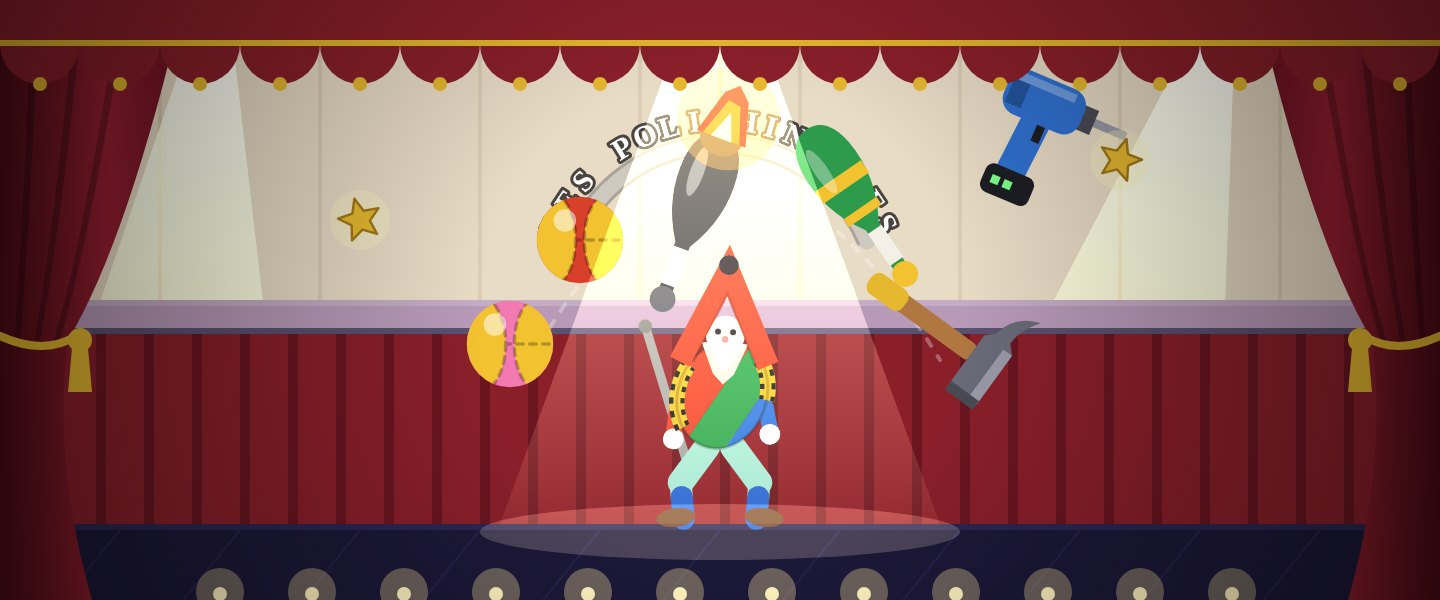
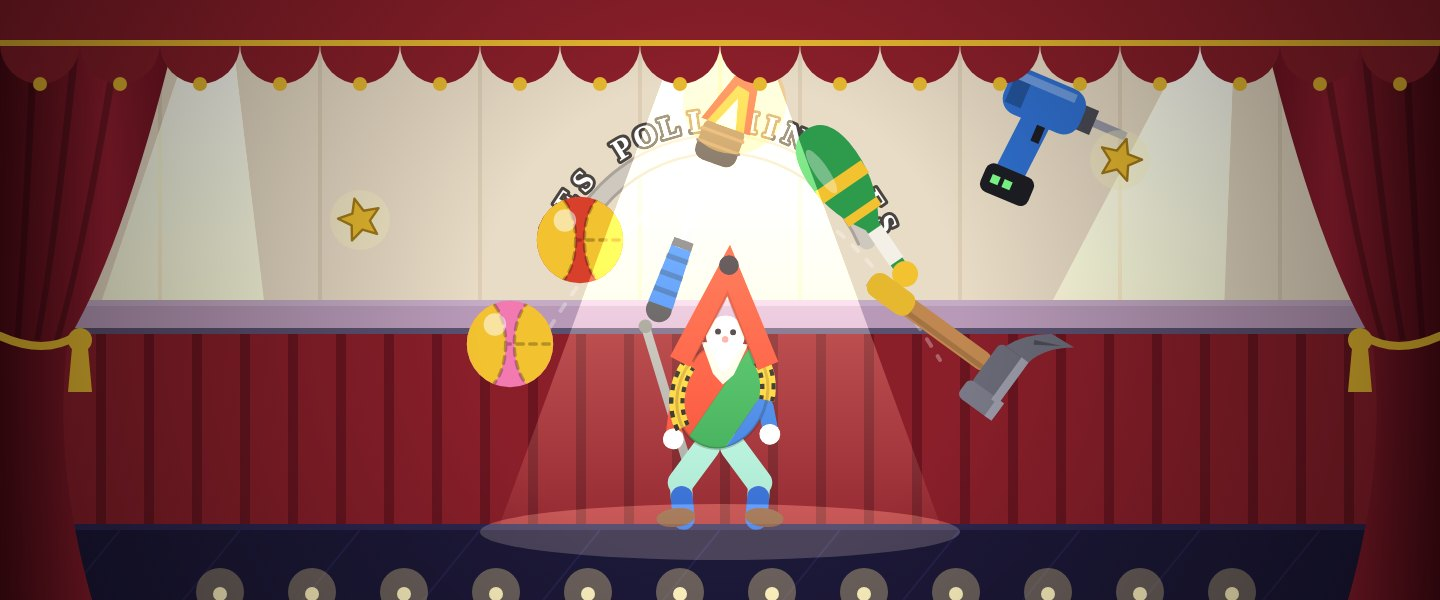
Jongleur : vraie torche de jonglage (manche, tube, mèche en feu) et marteau redessiné
Claude-Session: https://claude.ai/code/session_01VvPzovv9M4HU3UF5ZMQjNa

Changed region(s): [[0.4375, 0.12, 0.5625, 0.54], [0.6562, 0.54, 0.75, 0.69], [0.625, 0.48, 0.6562, 0.54]]

diff --git a/jongleur.html b/jongleur.html
@@ -2092,22 +2092,28 @@ function onTap(x, y) {
   if (tosses % 10 === 0 && n < 5) { const kd = pickJug(); addJug(kd); sfx.newObj(); popup(W / 2, G - 120, JUG_NAME[kd], '#ffe066') }
 }
 function drawClub(j, fire) {
-  // juggling club: knob, thin taped handle, long bulb
-  const body = fire ? '#3a3a44' : j.k;
-  X.fillStyle = body; X.beginPath(); X.moveTo(-1.6, 17); X.lineTo(-1.8, 5); X.quadraticCurveTo(-7.5, -4, -6.5, -14); X.quadraticCurveTo(-5.5, -22, 0, -22); X.quadraticCurveTo(5.5, -22, 6.5, -14); X.quadraticCurveTo(7.5, -4, 1.8, 5); X.lineTo(1.6, 17); X.closePath(); X.fill();
-  X.fillStyle = '#f4f0e8'; X.fillRect(-1.9, 6, 3.8, 9);
-  circ(fire ? '#5a5a66' : j.k2, 0, 18.5, 3);
-  if (!fire) { X.fillStyle = j.k2; X.fillRect(-6.4, -9, 12.8, 3.4); X.fillRect(-4.6, 0, 9.2, 2.2) }
-  X.fillStyle = 'rgba(255,255,255,.35)'; X.beginPath(); X.ellipse(-2.6, -12, 1.6, 6, 0, 0, 6.29); X.fill();
   if (fire) {
-    // wick wrapped in kevlar, on fire
-    X.fillStyle = '#5a4a3a'; X.beginPath(); X.ellipse(0, -21, 5, 4, 0, 0, 6.29); X.fill();
+    // fire torch for juggling: handle, aluminium tube, kevlar wick burning at the end
+    circ('#3a3a44', 0, 21, 3);
+    X.fillStyle = j.k; X.beginPath(); X.moveTo(-3, 20); X.lineTo(-2.4, 5); X.lineTo(2.4, 5); X.lineTo(3, 20); X.closePath(); X.fill();
+    X.fillStyle = 'rgba(0,0,0,.25)'; for (const y of [8, 12, 16]) X.fillRect(-2.8, y, 5.6, 1.2);
+    X.fillStyle = '#b8bcc8'; X.fillRect(-1.6, -16, 3.2, 22); X.fillStyle = '#e8ecf4'; X.fillRect(-1, -16, 1, 22);
+    X.fillStyle = '#5a5a66'; X.fillRect(-2.4, 4, 4.8, 2);
+    X.fillStyle = '#3a3030'; X.beginPath(); X.roundRect(-5, -25, 10, 10, 2.5); X.fill();
+    X.strokeStyle = '#5a4a40'; X.lineWidth = .8; for (const y of [-22, -19]) { X.beginPath(); X.moveTo(-5, y); X.lineTo(5, y); X.stroke() }
     const f = M.sin(t * .6 + j.x) * 1.5, h = 13 + M.sin(t * .9 + j.y) * 3;
-    X.save(); X.globalAlpha = .35; circ('#ffb040', 0, -26, 12); X.restore();
-    poly('#e0401f', [-6, -21, 6, -21, 3 + f, -24 - h * .7, 0, -24 - h, -3 + f, -24 - h * .75]);
-    poly('#f08a1c', [-4.5, -21, 4.5, -21, 1.5 + f, -24 - h * .55, -1.5 + f, -24 - h * .6]);
-    poly('#fff3b0', [-2.5, -21, 2.5, -21, f * .5, -24 - h * .35]);
+    X.save(); X.globalAlpha = .35; circ('#ffb040', 0, -30, 12); X.restore();
+    poly('#e0401f', [-6, -24, 6, -24, 3 + f, -27 - h * .7, 0, -27 - h, -3 + f, -27 - h * .75]);
+    poly('#f08a1c', [-4.5, -24, 4.5, -24, 1.5 + f, -27 - h * .55, -1.5 + f, -27 - h * .6]);
+    poly('#fff3b0', [-2.5, -24, 2.5, -24, f * .5, -27 - h * .35]);
+    return;
   }
+  // juggling club: knob, thin taped handle, long bulb
+  X.fillStyle = j.k; X.beginPath(); X.moveTo(-1.6, 17); X.lineTo(-1.8, 5); X.quadraticCurveTo(-7.5, -4, -6.5, -14); X.quadraticCurveTo(-5.5, -22, 0, -22); X.quadraticCurveTo(5.5, -22, 6.5, -14); X.quadraticCurveTo(7.5, -4, 1.8, 5); X.lineTo(1.6, 17); X.closePath(); X.fill();
+  X.fillStyle = '#f4f0e8'; X.fillRect(-1.9, 6, 3.8, 9);
+  circ(j.k2, 0, 18.5, 3);
+  X.fillStyle = j.k2; X.fillRect(-6.4, -9, 12.8, 3.4); X.fillRect(-4.6, 0, 9.2, 2.2);
+  X.fillStyle = 'rgba(255,255,255,.35)'; X.beginPath(); X.ellipse(-2.6, -12, 1.6, 6, 0, 0, 6.29); X.fill();
 }
 function drawJug(j) {
   if (j.kind === 'star') { X.save(); X.globalAlpha = .35; circ('#fff6c0', j.x, j.y, 15); X.restore(); star(j.x, j.y, 11, j.rot); return }
@@ -2129,10 +2135,14 @@ function drawJug(j) {
     X.fillStyle = '#1d1d24'; X.fillRect(-4.5, -5, 9, 3);
     X.fillStyle = 'rgba(255,255,255,.35)'; X.fillRect(-3.4, -1, 1.2, 14);
   } else if (j.kind === 'hammer') {
-    X.fillStyle = '#b07840'; X.beginPath(); X.roundRect(-2.2, -10, 4.4, 30, 2); X.fill();
-    X.fillStyle = j.k; X.beginPath(); X.roundRect(-2.8, 10, 5.6, 10, 2); X.fill();
-    X.fillStyle = '#6a6a78'; X.beginPath(); X.moveTo(-5, -17); X.lineTo(9, -17); X.lineTo(9, -9); X.lineTo(-5, -9); X.lineTo(-7, -11); X.quadraticCurveTo(-13, -12, -15, -18); X.quadraticCurveTo(-11, -15, -7, -15); X.closePath(); X.fill();
-    X.fillStyle = '#9a9aa8'; X.fillRect(-5, -17, 14, 2.5); X.fillStyle = '#4a4a55'; X.fillRect(8, -17, 2.5, 8);
+    // claw hammer: wooden handle with a coloured grip, steel head centred on top
+    X.fillStyle = '#c08850'; X.beginPath(); X.roundRect(-2.3, -14, 4.6, 34, 2); X.fill();
+    X.fillStyle = 'rgba(0,0,0,.15)'; X.fillRect(.6, -14, 1.2, 34);
+    X.fillStyle = j.k; X.beginPath(); X.roundRect(-3, 8, 6, 12, 2.5); X.fill();
+    X.fillStyle = '#6a6a78'; X.beginPath(); X.roundRect(-6, -21, 12, 8, 1.5); X.fill();
+    X.fillStyle = '#7a7a88'; X.beginPath(); X.roundRect(5, -22, 5, 10, 1.5); X.fill();
+    X.fillStyle = '#6a6a78'; X.beginPath(); X.moveTo(-6, -21); X.quadraticCurveTo(-11, -22, -15, -27.5); X.lineTo(-14.5, -21.5); X.quadraticCurveTo(-11, -16.5, -6, -14.5); X.closePath(); X.fill(); X.fillStyle = '#4a4a55'; X.beginPath(); X.moveTo(-13.6, -25); X.lineTo(-10, -19.5); X.lineTo(-11, -19); X.closePath(); X.fill();
+    X.fillStyle = '#9a9aa8'; X.fillRect(-6, -21, 12, 2); X.fillRect(5, -22, 5, 2);
   } else if (j.kind === 'drill') {
     // cordless screwdriver / drill
     X.fillStyle = '#9a9aa8'; X.fillRect(9, -9.5, 9, 2); X.fillStyle = '#4a4a55'; X.fillRect(6, -11.5, 4, 6);

diff --git a/sw.js b/sw.js
@@ -1,6 +1,6 @@
 // Les Polichinelles - service worker
 // Network first (players always get the latest version when online), cache as a fallback (works offline).
-const CACHE = 'polichinelles-v18';
+const CACHE = 'polichinelles-v19';
 const CORE = ['./', 'index.html', 'course.html', 'envol.html', 'tape.html', 'pyramide.html', 'jongleur.html', 'trampo.html', 'tir.html', 'loge.html', 'pass.html', 'pass.js', 'shots/course.jpg', 'shots/envol.jpg', 'shots/trampo.jpg', 'shots/tir.jpg', 'shots/tape.jpg', 'shots/pyramide.jpg', 'shots/jongleur.jpg', 'kart.html', 'three.module.min.js', 'manifest.webmanifest', 'icon-192.png', 'icon-512.png', 'icon-180.png'];
 
 self.addEventListener('install', e => {
